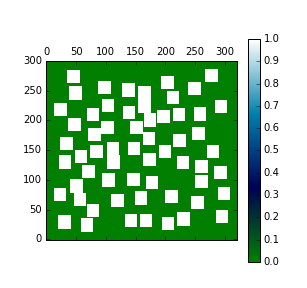
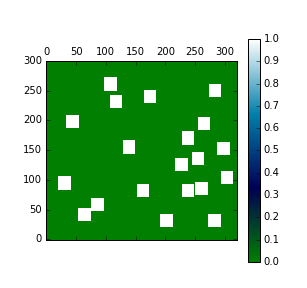
amstelhaege

Changed region(s): [[0.1759, 0.2188, 0.7622, 0.8125], [0.6156, 0.2188, 0.7622, 0.4062]]

diff --git a/amstelhaege.py b/amstelhaege.py
@@ -47,13 +47,24 @@ def main():
         
     houseid = 0
     houselist = []
-    for i in range(60):
-        
+    # 20 huizen, 
+    for i in range(3):
+        house = hc.Eensgezinswoning()
+        matrix = movement.random_placing(matrix, house, width, height, houseid)
+        houselist.append(house)
+        houseid += 1
+    for i in range(5):
+        house = hc.Bungalow()
+        matrix = movement.random_placing(matrix, house, width, height, houseid)
+        houselist.append(house)
+        houseid += 1
+    for i in range(12):
         house = hc.Maison()
         matrix = movement.random_placing(matrix, house, width, height, houseid)
         houselist.append(house)
         houseid += 1
     
+    print(len(houselist))
     # 20 huizen
     #matrix = simple_algoritme(width, height, 3, 5, 12)
     

diff --git a/house_class.py b/house_class.py
@@ -16,8 +16,8 @@ Stephan 04/04 21.13
 
 
 class Eengezinswoning():
-    width = 8
-    heigth = 8
+    width = 16
+    heigth = 16
     vrijstand = 1
     '''
     8x8 TODO
@@ -34,8 +34,8 @@ class Eengezinswoning():
         return self.vrijstand
     
 class Bungalow():
-    width = 8
-    heigth = 10
+    width = 16
+    heigth = 20
     vrijstand = 1
     '''
     10x7.5 TODO
@@ -52,8 +52,8 @@ class Bungalow():
         return self.vrijstand
         
 class Maison():
-    width = 11
-    heigth = 10.5
+    width = 22
+    heigth = 21
     vrijstand = 6
     cost = 610000
     posx = False
@@ -62,9 +62,6 @@ class Maison():
     '''
     11x10.5 TODO
     '''
-    def __init__(self):
-        self.width = 11
-        #todo
     
     def getwidth(self):
         return self.width
